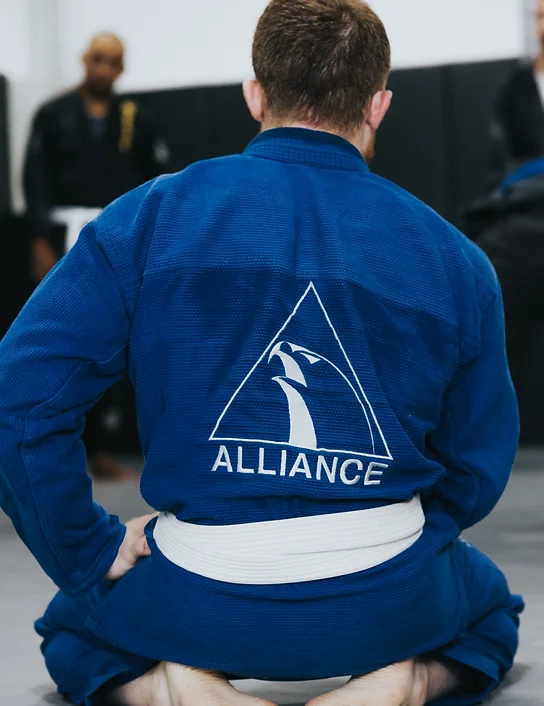
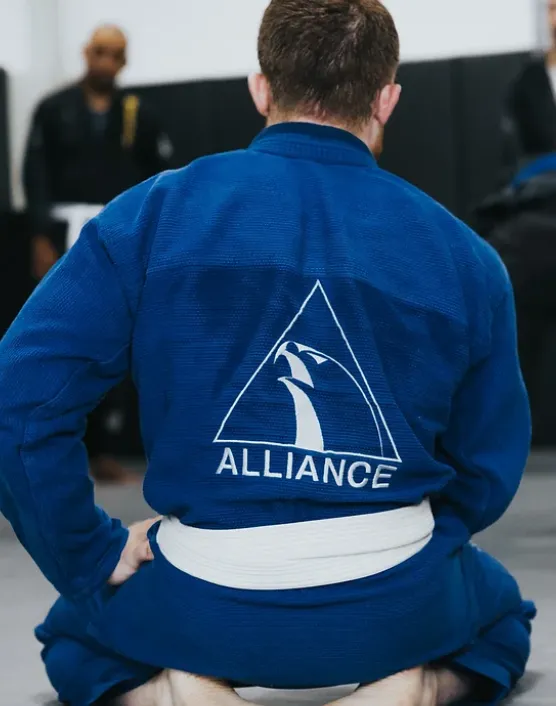
Images

diff --git a/src/components/banner/Banner.vue b/src/components/banner/Banner.vue
@@ -24,13 +24,13 @@
       </div>
     </div>
     <div class="col-md-4 px-0 d-none d-md-block">
-      <img src="./imgs/img1.webp" alt="Alliance" class="w-100 h-100 img-fluid" />
+      <img src="./imgs/img1.webp" width="556" height="706" alt="Alliance" class="w-100 h-100 img-fluid" />
     </div>
     <div class="col-md-4 col-12 px-0">
-      <img src="./imgs/img2.webp" alt="Alliance" class="w-100 h-100 img-fluid" />
+      <img src="./imgs/img2.webp" width="556" height="706" alt="Alliance" class="w-100 h-100 img-fluid" />
     </div>
     <div class="col-md-4 px-0 d-none d-md-block">
-      <img src="./imgs/img3.webp" alt="Alliance" class="w-100 h-100 img-fluid" />
+      <img src="./imgs/img3.webp" width="556" height="706" alt="Alliance" class="w-100 h-100 img-fluid" />
     </div>
   </div>
 </template>
@@ -47,7 +47,6 @@ export default {
 <style lang="scss" scoped>
 #banner {
   color: $white;
-  max-height: 706px;
   position: relative;
   .title {
     position: absolute;
